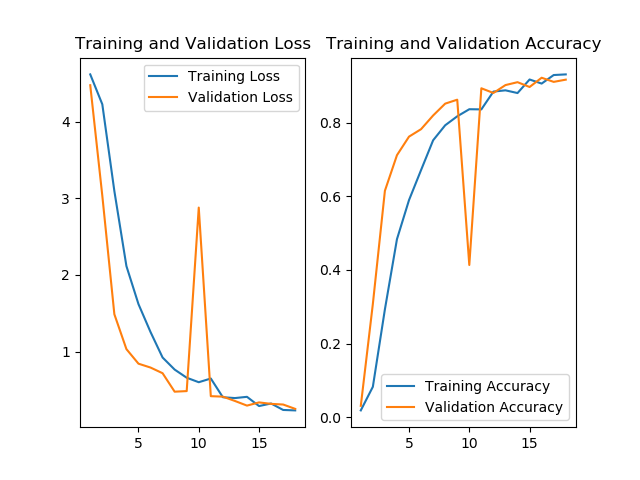
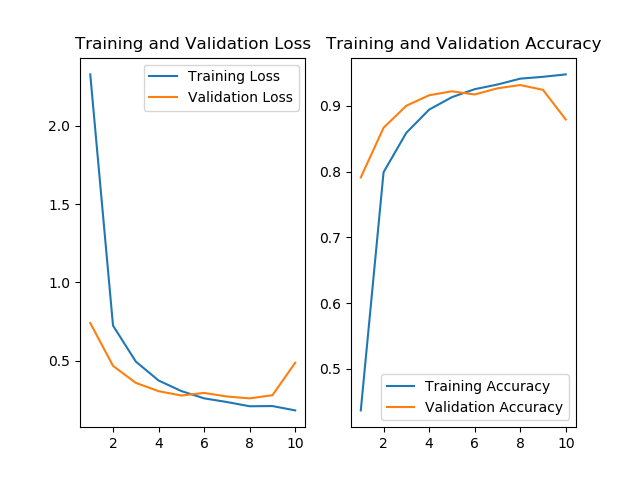
🌈

diff --git a/predict_v4.py b/predict_v4.py
@@ -1,0 +1,105 @@
+import os
+import cv2
+import numpy as np
+import tensorflow as tf
+import matplotlib.image as mpimg
+
+base_dir = "./original pic/"  # 将待识别的图片放入此文件夹
+dst_dir = "./cut pic/"        # 切割过的图片生成于此文件夹
+min_val = 10
+min_range = 30
+
+count = 0
+
+
+def extract_peek(array_vals, minimun_val, minimun_range):
+    start_i = None
+    end_i = None
+    peek_ranges = []
+    for i, val in enumerate(array_vals):
+        if val > minimun_val and start_i is None:
+            start_i = i
+        elif val > minimun_val and start_i is not None:
+            pass
+        elif val < minimun_val and start_i is not None:
+            if i - start_i >= minimun_range:
+                end_i = i
+                # print(end_i - start_i)
+                peek_ranges.append((start_i, end_i))
+                start_i = None
+                end_i = None
+        elif val < minimun_val and start_i is None:
+            pass
+        else:
+            raise ValueError("cannot parse this case...")
+    return peek_ranges
+
+
+def cutImage(img, peek_range):
+    global count
+    for i, peek_range in enumerate(peek_ranges):
+        for vertical_range in vertical_peek_ranges2d[i]:
+            x = vertical_range[0]
+            y = peek_range[0]
+            w = vertical_range[1] - x
+            h = peek_range[1] - y
+            pt1 = (x, y)
+            pt2 = (x + w, y + h)
+            count += 1
+            img1 = img[y:peek_range[1], x:vertical_range[1]]
+            new_shape = (64, 64)
+            img1 = cv2.resize(img1, new_shape)
+            cv2.imwrite(dst_dir + str(count).zfill(5) + ".png", img1)  # zfill(x) 字符串中未满x个字符的话前面补零
+            # cv2.rectangle(img, pt1, pt2, color)
+
+
+for fileName in os.listdir(base_dir):
+    img = cv2.imread(base_dir + fileName)
+    gray = cv2.cvtColor(img, cv2.COLOR_BGR2GRAY)
+    adaptive_threshold = cv2.adaptiveThreshold(gray, 255, cv2.ADAPTIVE_THRESH_GAUSSIAN_C, \
+                                               cv2.THRESH_BINARY_INV, 11, 2)
+    horizontal_sum = np.sum(adaptive_threshold, axis=1)
+    peek_ranges = extract_peek(horizontal_sum, min_val, min_range)
+    line_seg_adaptive_threshold = np.copy(adaptive_threshold)
+    for i, peek_range in enumerate(peek_ranges):
+        x = 0
+        y = peek_range[0]
+        w = line_seg_adaptive_threshold.shape[1]
+        h = peek_range[1] - y
+        pt1 = (x, y)
+        pt2 = (x + w, y + h)
+        cv2.rectangle(line_seg_adaptive_threshold, pt1, pt2, 255)
+    vertical_peek_ranges2d = []
+    for peek_range in peek_ranges:
+        start_y = peek_range[0]
+        end_y = peek_range[1]
+        line_img = adaptive_threshold[start_y:end_y, :]
+        vertical_sum = np.sum(line_img, axis=0)
+        vertical_peek_ranges = extract_peek(
+            vertical_sum, min_val, min_range)
+        vertical_peek_ranges2d.append(vertical_peek_ranges)
+    cutImage(img, peek_range)
+
+model = tf.keras.models.load_model('Chinese_recognition_model_v2.h5')
+
+files = os.listdir(dst_dir)
+for fi in files:
+    fi_d = os.path.join(dst_dir, fi + '/')
+
+    img = mpimg.imread(fi_d[:-1])
+    img2 = cv2.resize(img, (64, 64))
+    img3 = np.zeros((1, img2.shape[0], img2.shape[1], img2.shape[2]))  # (1, 64, 64, 3)
+    img3[0, :] = img2
+
+    pre = model.predict(img3)  # 预测
+
+    predicted_label = np.argmax(pre[0])
+    class_names = ['一', '丁', '七', '万', '丈', '三', '上', '下', '不', '与', '丑', '专', '且', '世', '丘', '丙', '业', '丛', '东', '丝',
+                   '丢', '两', '严', '丧', '个', '丫', '中', '丰', '串', '临', '丸', '丹', '为', '主', '丽', '举', '乃', '久', '么', '义',
+                   '之', '乌', '乍', '乎', '乏', '乐', '乒', '乓', '乔', '乖', '乘', '乙', '九', '乞', '也', '习', '乡', '书', '买', '乱',
+                   '乳', '乾', '了', '予', '争', '事', '二', '于', '亏', '云', '互', '五', '井', '亚', '些', '亡', '亢', '交', '亥', '亦',
+                   '产', '亨', '亩', '享', '京', '亭', '亮', '亲', '人', '亿', '什', '仁', '仅', '仆', '仇', '今', '介', '仍', '从', '仑',
+                   '仓']
+
+    print(class_names[predicted_label], end=' ')
+    # print(100 * np.max(pre[0]))

diff --git a/fit_v2.py b/fit_v2.py
@@ -1,4 +1,4 @@
-# 分批次加载数据，无灰度化操作，图片格式为(64, 64, 3)
+# 分批次加载数据，无灰度化处理，图片格式为(64, 64, 3)
 
 from __future__ import print_function
 import os
@@ -6,15 +6,16 @@ from keras.preprocessing.image import ImageDataGenerator
 from keras.layers import Input, Dense, Dropout, Convolution2D, MaxPooling2D, Flatten
 from keras.models import Model, load_model
 import get_pyplot
+import get_model
 
 data_dir = 'data'
 train_data_dir = os.path.join(data_dir, 'train')
 test_data_dir = os.path.join(data_dir, 'test')
 
 # dimensions of our images.
-img_width, img_height = 64, 64
-charset_size = 100
-nb_nb_epoch = 18
+img_width, img_height = 64, 64  # 宽高64
+charset_size = 100  # 100分类
+nb_nb_epoch = 10  # 训练30次
 
 
 def train(model):
@@ -29,13 +30,13 @@ def train(model):
     train_generator = train_datagen.flow_from_directory(
         train_data_dir,
         target_size=(img_width, img_height),
-        batch_size=1024,
+        batch_size=50,
         # color_mode="grayscale",
         class_mode='categorical')
     validation_generator = test_datagen.flow_from_directory(
         test_data_dir,
         target_size=(img_width, img_height),
-        batch_size=1024,
+        batch_size=33,
         # color_mode="grayscale",
         class_mode='categorical')
 
@@ -43,17 +44,19 @@ def train(model):
                   optimizer='rmsprop',
                   metrics=['accuracy'])
     history = model.fit_generator(train_generator,
+                                  steps_per_epoch=476,
                                   nb_epoch=nb_nb_epoch,
-                                  validation_data=validation_generator,)
+                                  validation_data=validation_generator,
+                                  validation_steps=181,)
 
     epochs_range = range(1, nb_nb_epoch + 1)
     train_loss = history.history['loss']
     val_loss = history.history['val_loss']
-    train_accuracy = history.history['accuracy']
-    val_accuracy = history.history['val_accuracy']
+    train_acc = history.history['acc']
+    val_acc = history.history['val_acc']
 
     # 绘制图表
-    get_pyplot.show(epochs_range, train_loss, val_loss, train_accuracy, val_accuracy, 'Model_score_v2')
+    get_pyplot.show(epochs_range, train_loss, val_loss, train_acc, val_acc, 'Model_score_v2')
 
 
 def build_model(include_top=True, input_shape=(64, 64, 3), classes=charset_size):
@@ -72,10 +75,16 @@ def build_model(include_top=True, input_shape=(64, 64, 3), classes=charset_size)
         x = Dense(classes, activation='softmax', name='predictions')(x)
 
     model = Model(img_input, x, name='model')
+    model.summary()
     return model
 
 
 model = build_model()
 # model = load_model("./model.h5")
+
+
+# model = get_model.get_model()
+
+
 train(model)
 model.save("Chinese_recognition_model_v2.h5")

diff --git a/predict_v3.py b/predict_v3.py
@@ -3,20 +3,22 @@ import numpy as np
 import tensorflow as tf
 import matplotlib.image as mpimg
 
+model = tf.keras.models.load_model('Chinese_recognition_model_v2.h5')
 
-model = tf.keras.models.load_model('Chinese_recognition_model.h5_v1')
-
-img = mpimg.imread('data/test/00011/522.png')
+img = mpimg.imread('data/test/00034/2190.png')
 img2 = cv2.resize(img, (64, 64))
-img3 = np.zeros((1, img2.shape[0], img2.shape[1], img2.shape[2]))
+img3 = np.zeros((1, img2.shape[0], img2.shape[1], img2.shape[2]))  # (1, 64, 64, 3)
 img3[0, :] = img2
 
 pre = model.predict(img3)  # 预测
 
 predicted_label = np.argmax(pre[0])
 
-class_names = list(range(100))
+class_names = ['一', '丁', '七', '万', '丈', '三', '上', '下', '不', '与', '丑', '专', '且', '世', '丘', '丙', '业', '丛', '东', '丝', '丢',
+               '两', '严', '丧', '个', '丫', '中', '丰', '串', '临', '丸', '丹', '为', '主', '丽', '举', '乃', '久', '么', '义', '之', '乌',
+               '乍', '乎', '乏', '乐', '乒', '乓', '乔', '乖', '乘', '乙', '九', '乞', '也', '习', '乡', '书', '买', '乱', '乳', '乾', '了',
+               '予', '争', '事', '二', '于', '亏', '云', '互', '五', '井', '亚', '些', '亡', '亢', '交', '亥', '亦', '产', '亨', '亩', '享',
+               '京', '亭', '亮', '亲', '人', '亿', '什', '仁', '仅', '仆', '仇', '今', '介', '仍', '从', '仑', '仓']
 
 print(class_names[predicted_label])
 print(100 * np.max(pre[0]))
-

diff --git a/fit_v1.py b/fit_v1.py
@@ -5,7 +5,7 @@ import get_pyplot
 import get_train_array
 import get_test_array
 
-epochs = 18  # 选择批次
+epochs = 20  # 选择批次
 
 model = get_model.get_model()  # 选择模型
 
@@ -24,20 +24,20 @@ epochs_range = range(1, epochs+1)
 train_loss = history.history['loss']
 val_loss = history.history['val_loss']
 test_loss = test_scores[0]
-train_accuracy = history.history['accuracy']
-val_accuracy = history.history['val_accuracy']
-test_accuracy = test_scores[1]
+train_acc = history.history['acc']
+val_acc = history.history['val_acc']
+test_acc = test_scores[1]
 
 # 将模型保存为 HDF5 文件
 model.save('Chinese_recognition_model_v1.h5')
 print("save model: Chinese_recognition_model_v1.h5")
 
 # 绘制图表
-get_pyplot.show(epochs_range, train_loss, val_loss, train_accuracy, val_accuracy, 'Model_score_v1')
+get_pyplot.show(epochs_range, train_loss, val_loss, train_acc, val_acc, 'Model_score_v1')
 
 #  打印得分
 print('')
-print('train loss:', train_loss[-1], '   ', 'train accuracy:', train_accuracy[-1])
-print('val loss:', val_loss[-1], '   ', 'val accuracy:', val_accuracy[-1])
-print('test loss:', test_loss, '   ', 'test accuracy:', test_accuracy)
+print('train loss:', train_loss[-1], '   ', 'train accuracy:', train_acc[-1])
+print('val loss:', val_loss[-1], '   ', 'val accuracy:', val_acc[-1])
+print('test loss:', test_loss, '   ', 'test accuracy:', test_acc)
 print('')

diff --git a/predict_v2.py b/predict_v2.py
@@ -4,6 +4,10 @@ import tensorflow as tf
 import get_test_array
 import numpy as np
 import matplotlib.pyplot as plt
+import os
+
+os.environ['TF_CPP_MIN_LOG_LEVEL'] = '2'
+# 忽略警告：Your CPU supports instructions that this TensorFlow binary was not compiled to use: AVX2
 
 
 def plot_image(i, predictions_array, true_label, img):
@@ -43,7 +47,7 @@ predictions = model.predict(test_image)
 # Color correct predictions in blue and incorrect predictions in red.
 plt.figure(figsize=(10, 10))
 for i in range(36):
-  plt.subplot(6, 6, i+1)
-  plot_image(i, predictions[i], test_label, test_image)
+    plt.subplot(6, 6, i+1)
+    plot_image(i, predictions[i], test_label, test_image)
 plt.tight_layout()
 plt.show()

diff --git a/predict_v1.py b/predict_v1.py
@@ -4,11 +4,11 @@ import tensorflow as tf
 import matplotlib.image as mpimg
 
 
-model = tf.keras.models.load_model('Chinese_recognition_model_v1.h5')
+model = tf.keras.models.load_model('Chinese_recognition_model_v2.h5')
 
 img = mpimg.imread('data/test/00000/63083.png')
-img2 = cv2.resize(img, (64, 64))
-img3 = np.zeros((1, img2.shape[0], img2.shape[1], img2.shape[2]))
+img2 = cv2.resize(img, (64, 64))  # (64, 64, 3)
+img3 = np.zeros((1, img2.shape[0], img2.shape[1], img2.shape[2]))  # (1, 64, 64, 3)
 img3[0, :] = img2
 
 pre = model.predict_classes(img3)  # 预测

diff --git a/get_model.py b/get_model.py
@@ -11,7 +11,7 @@ def get_model():
     # 创建一个新模型
     model = Sequential()
 
-    model.add(Conv2D(32, 3, padding='same', activation='relu', input_shape=(64, 64, 3)))
+    model.add(Conv2D(32, 3, padding='same', activation='relu', input_shape=(64, 64, 3)))  # 64 64 3
     model.add(MaxPooling2D(pool_size=(2, 2)))
 
     model.add(Conv2D(64, 3, padding='same', activation='relu'))

diff --git a/get_train_array.py b/get_train_array.py
@@ -22,7 +22,7 @@ def load_data(filepath):
         else:
             labels.append(label)
             img = mi.imread(fi_d[:-1])
-            img2 = cv2.resize(img, (64, 64))
+            img2 = cv2.resize(img, (64, 64))  # (64,64,3)
             dataset.append(img2)
 
     # 在训练集中取一部分作为验证集

diff --git a/get_test_array.py b/get_test_array.py
@@ -21,7 +21,7 @@ def load_data(filepath):
         else:
             labels.append(label)
             img = mi.imread(fi_d[:-1])
-            img2 = cv2.resize(img, (64, 64))
+            img2 = cv2.resize(img, (64, 64))  # (64,64,3)
             dataset.append(img2)
 
     return np.array(dataset), np.array(labels)
